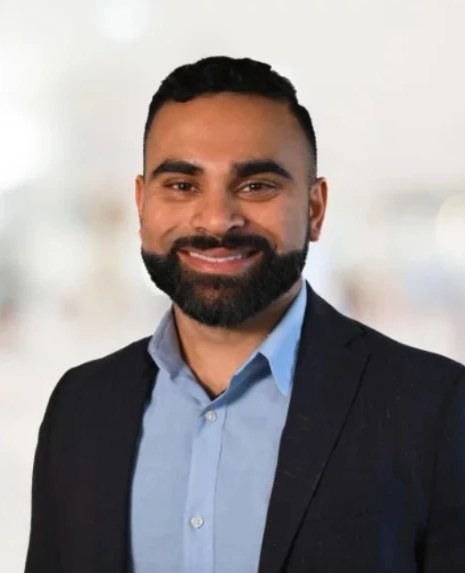
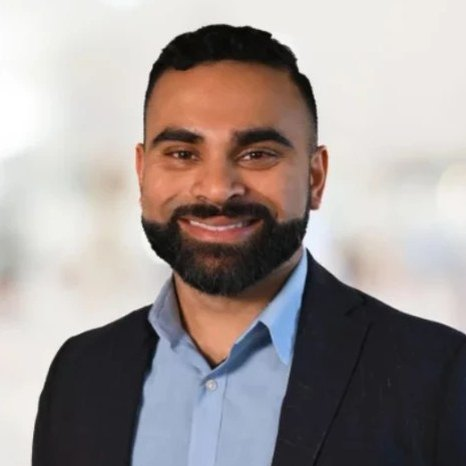
Team: new photo for Shawheen; every headshot cropped square
All five are 466x466; portraits keep a little more above the face than
below (Aakarsh's from the top, his original being framed high). The card
photo box is square to match.

diff --git a/team.html b/team.html
@@ -112,7 +112,7 @@
         </header>
         <ul class="team-grid">
           <li class="member reveal" data-tilt>
-            <img class="member__photo" src="assets/team/mahesh-narayanan.jpg" alt="Mahesh Narayanan" width="466" height="573" loading="lazy">
+            <img class="member__photo" src="assets/team/mahesh-narayanan.jpg" alt="Mahesh Narayanan" width="466" height="466" loading="lazy">
             <div class="member__body">
               <h3 class="card__title">Mahesh Narayanan</h3>
               <p class="member__role">Managing Partner</p>
@@ -121,7 +121,7 @@
             </div>
           </li>
           <li class="member reveal" data-tilt>
-            <img class="member__photo" src="assets/team/steven-richer.jpg" alt="Steven Richer" width="466" height="573" loading="lazy">
+            <img class="member__photo" src="assets/team/steven-richer.jpg" alt="Steven Richer" width="466" height="466" loading="lazy">
             <div class="member__body">
               <h3 class="card__title">Steven Richer</h3>
               <p class="member__role">Venture Partner</p>
@@ -130,7 +130,7 @@
             </div>
           </li>
           <li class="member reveal" data-tilt>
-            <img class="member__photo" src="assets/team/shawheen-attar.jpg" alt="Shawheen Attar" width="466" height="573" loading="lazy">
+            <img class="member__photo" src="assets/team/shawheen-attar.jpg" alt="Shawheen Attar" width="466" height="466" loading="lazy">
             <div class="member__body">
               <h3 class="card__title">Shawheen Attar</h3>
               <p class="member__role">Operating Partner</p>
@@ -139,7 +139,7 @@
             </div>
           </li>
           <li class="member reveal" data-tilt>
-            <img class="member__photo" src="assets/team/hari-gopal.jpg" alt="Hari Gopal" width="466" height="573" loading="lazy">
+            <img class="member__photo" src="assets/team/hari-gopal.jpg" alt="Hari Gopal" width="466" height="466" loading="lazy">
             <div class="member__body">
               <h3 class="card__title">Hari Gopal</h3>
               <p class="member__role">Venture Partner</p>
@@ -148,7 +148,7 @@
             </div>
           </li>
           <li class="member reveal" data-tilt>
-            <img class="member__photo" src="assets/team/aakarsh-malhotra.jpg" alt="Aakarsh Malhotra" width="466" height="573" loading="lazy">
+            <img class="member__photo" src="assets/team/aakarsh-malhotra.jpg" alt="Aakarsh Malhotra" width="466" height="466" loading="lazy">
             <div class="member__body">
               <h3 class="card__title">Aakarsh Malhotra</h3>
               <p class="member__role">Junior Venture Partner</p>

diff --git a/css/styles.css b/css/styles.css
@@ -2318,7 +2318,7 @@ html.splash--returning [data-reveal] {
 .member__photo {
   display: block;
   width: 100%;
-  aspect-ratio: 466 / 573;           /* the headshots' own shape */
+  aspect-ratio: 1;                   /* the headshots are square */
   object-fit: cover;
   background: var(--line);
 }
